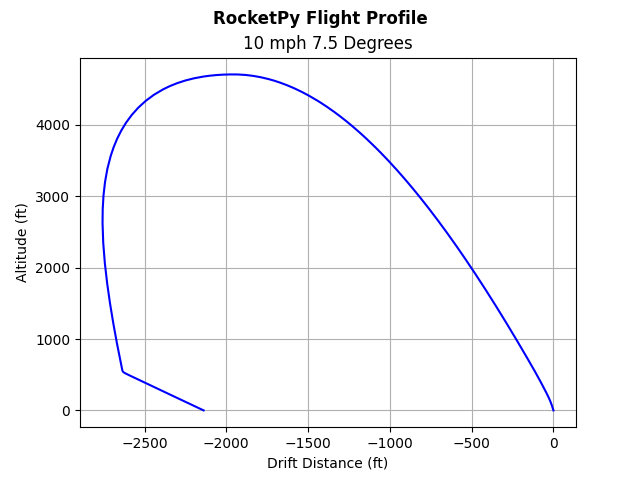
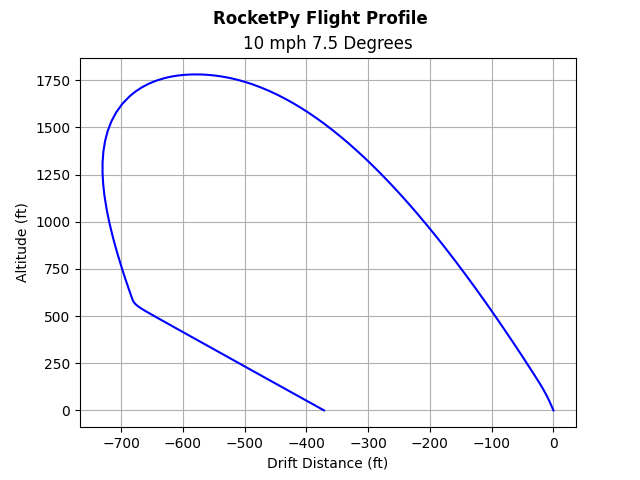
Updated code to work with new radius value for parachutes

diff --git a/main.py b/main.py
@@ -31,7 +31,7 @@ def main():
     angles = [5, 5, 7.5, 7.5, 10]
     speeds = [0, 5, 10, 15, 20]
     
-    vehicle = SLUIRP.data.OpenYAML.readYaml("ConfigFiles/feustel_pdr.yaml")
+    vehicle = SLUIRP.data.OpenYAML.readYaml("ConfigFiles/feustel_subscale.yaml")
     print(vehicle.area)
     print("working")
     #mach_curve, cd_curve = CD_curve_estimate(drag_curve="CSV_files/feustel_pdr_drag.csv",cur_mach=0.262, cur_cd=0.75)
@@ -41,13 +41,13 @@ def main():
     #                        init_angle=0,
     #                        drag_data = np.column_stack([mach_curve, cd_curve]))
     #print(cur_apogee)
-    print(range(300, 4400,205))
-    table = airbrakes_table(init_vels=range(10, 210, 10),
-                    init_alts=range(75, 1335,63),
-                    init_angles=[0, 5, 10, 15, 20],
-                    apogee=1341,
-                    vehicle_file="ConfigFiles/feustel_pdr.yaml",
-                    drag_data="CSV_files/feustel_pdr_drag.csv")
+    #print(range(300, 4400,205))
+    #table = airbrakes_table(init_vels=range(10, 210, 10),
+    #                init_alts=range(75, 1335,63),
+    #                init_angles=[0, 5, 10, 15, 20],
+    #                apogee=1341,
+    #                vehicle_file="ConfigFiles/feustel_pdr.yaml",
+    #                drag_data="CSV_files/feustel_pdr_drag.csv")
     #env = SLUIRP.sims.RocketPySim.get_ST_env(8.7 * 0.3048)
     #vehicle = SLUIRP.data.OpenYAML.readYaml("ConfigFiles/feustel_pdr.yaml")
     #vdf = SLUIRP.data.OpenCSV.get_standard_data("CSV_files/huntsvillelaunch.csv")
@@ -57,7 +57,7 @@ def main():
     #graph_thrust()
     #drag = np.array([[0, 0.8],[0.3, 0.9],[0.5,1]])
     #print(SLUIRP.in_dev.airbrakes_system.midair_sims.midair_sim("ConfigFiles/2026_Proposal_12lb.yaml", 50, 300, 50 , drag))
-    #SLUIRP.sims.RocketPySim.multi_sim(angles, speeds, "ConfigFiles/feustel_pdr.yaml")
+    SLUIRP.sims.RocketPySim.multi_sim(angles, speeds, "ConfigFiles/feustel_subscale.yaml")
     #print(SLUIRP.in_dev.airbrakes_system.midair_sims.from_apogee_sim("ConfigFiles/feustel_pdr.yaml", 6000, 10))
     #SLUIRP.sims.RocketPySim.single_sim(5, 0, "ConfigFiles/2026_Proposal_12lb.yaml", "for 12 lb Design")
     #print(SLUIRP.in_dev.airbrakes_system.midair_sims.midair_sim("ConfigFiles/2026_Proposal_12lb.yaml",

diff --git a/SLUIRP/data/OpenYAML.py b/SLUIRP/data/OpenYAML.py
@@ -187,17 +187,29 @@ def readYaml (filename):
             cd_s = parachutes_data["main_cd"] * (parachutes_data["main_diameter"] / 2 * IN_TO_M) ** 2 * math.pi, 
             #Defined as area (m^2) * coefficient of drag 
             trigger = parachutes_data["main_trigger"] / FT_TO_M, #altitude of main deployment ft -> meters
-            lag = parachutes_data["delay"] #lag between deployment signal and deployment
+            lag = parachutes_data["delay"], #lag between deployment signal and deployment
+            radius = parachutes_data["main_diameter"] * IN_TO_M / 2
         )
+        print("I'm working!!!!")
 
     #Adds drogue if present
-    if parachutes_data["drogue_present"]:
+    if parachutes_data["drogue_present"] == 1:
         drogue = vehicle.add_parachute(
             name = "drogue",
             lag = 0,# lag between deployment signal and deployment
             cd_s = parachutes_data["drogue_cd"] * (parachutes_data["drogue_diameter"] / 2 * IN_TO_M) ** 2 * math.pi,
             #Defined as area (m^2) * coefficient of drag 
-            trigger = "apogee" #Triggers drogue and apogee
+            trigger = "apogee", #Triggers drogue and apogee
+            radius = parachutes_data["drogue_diameter"] * IN_TO_M / 2
+        )
+    elif parachutes_data["drogue_present"] == 2:
+        drogue = vehicle.add_parachute(
+            name = "drogue",
+            lag = 0,# lag between deployment signal and deployment
+            cd_s = parachutes_data["drogue_cd"] * IN_TO_M ** 2,
+            #Defined as area (m^2) * coefficient of drag 
+            trigger = "apogee", #Triggers drogue and apogee
+            radius = 0.001
         )
     vehicle.m_heav = m_heav
     vehicle.main_deploy = main.trigger

diff --git a/SLUIRP/sims/RocketPySim.py b/SLUIRP/sims/RocketPySim.py
@@ -154,6 +154,7 @@ def single_sim(angle, speed, file_name, name = None, iteration = None):
     descent_time= time[-1] - testFlight.apogee_time
     ascent_time= testFlight.apogee_time
     apogee= (testFlight.apogee - env.elevation) * FT_TO_M
+    print(apogee)
     distance= abs(drift[-1])
     run_params= plot_name
     max_mach= max(mach_num)
